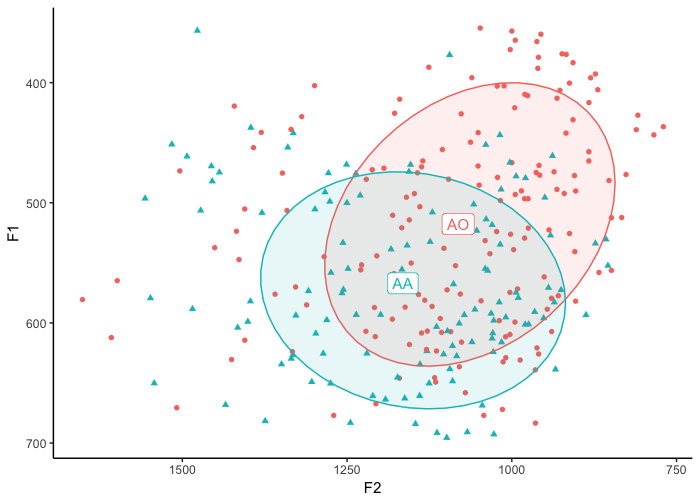
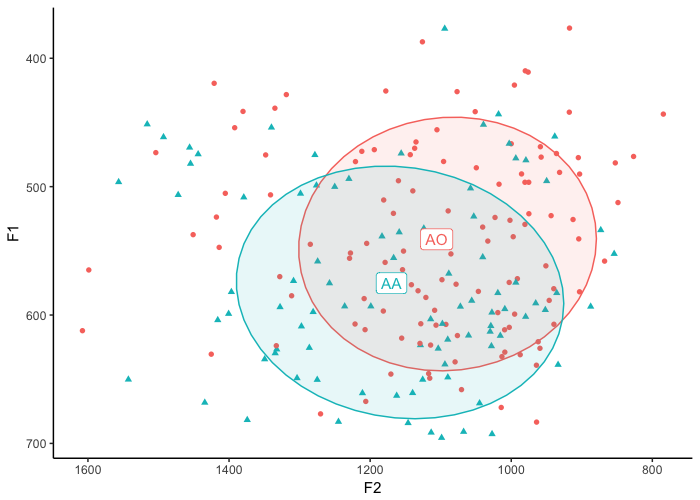
removed R from cot-caught stuff

diff --git a/_posts/2018-03-18-making-vowel-plots-in-r-part-1.md b/_posts/2018-03-18-making-vowel-plots-in-r-part-1.md
@@ -564,7 +564,7 @@ ggplot(my_five_vowels, aes(x = F2, y = F1, color = vowel, label = vowel, shape =
 
 ## Text instead of points
 
-Okay, last thing, I promise. If your dataset is relatively small, a really slick trick is to plot the words themselves rather than points. We saw how to do this above when we were plotting the means, but let's apply that to the regular data. For this example, I'll just zoom in on my "AA" and "AO" vowels because I've been reading about the *cot*-*caught* merger recently. 
+Okay, last thing, I promise. If your dataset is relatively small, a really slick trick is to plot the words themselves rather than points. We saw how to do this above when we were plotting the means, but let's apply that to the regular data. For this example, I'll just zoom in on my "AA" and "AO" vowels (except for the ones before /ɹ/) because I've been reading about the *cot*-*caught* merger recently. 
 
 ```r
 cot_caught <- subset(my_vowels, vowel %in% c("AA", "AO"))
